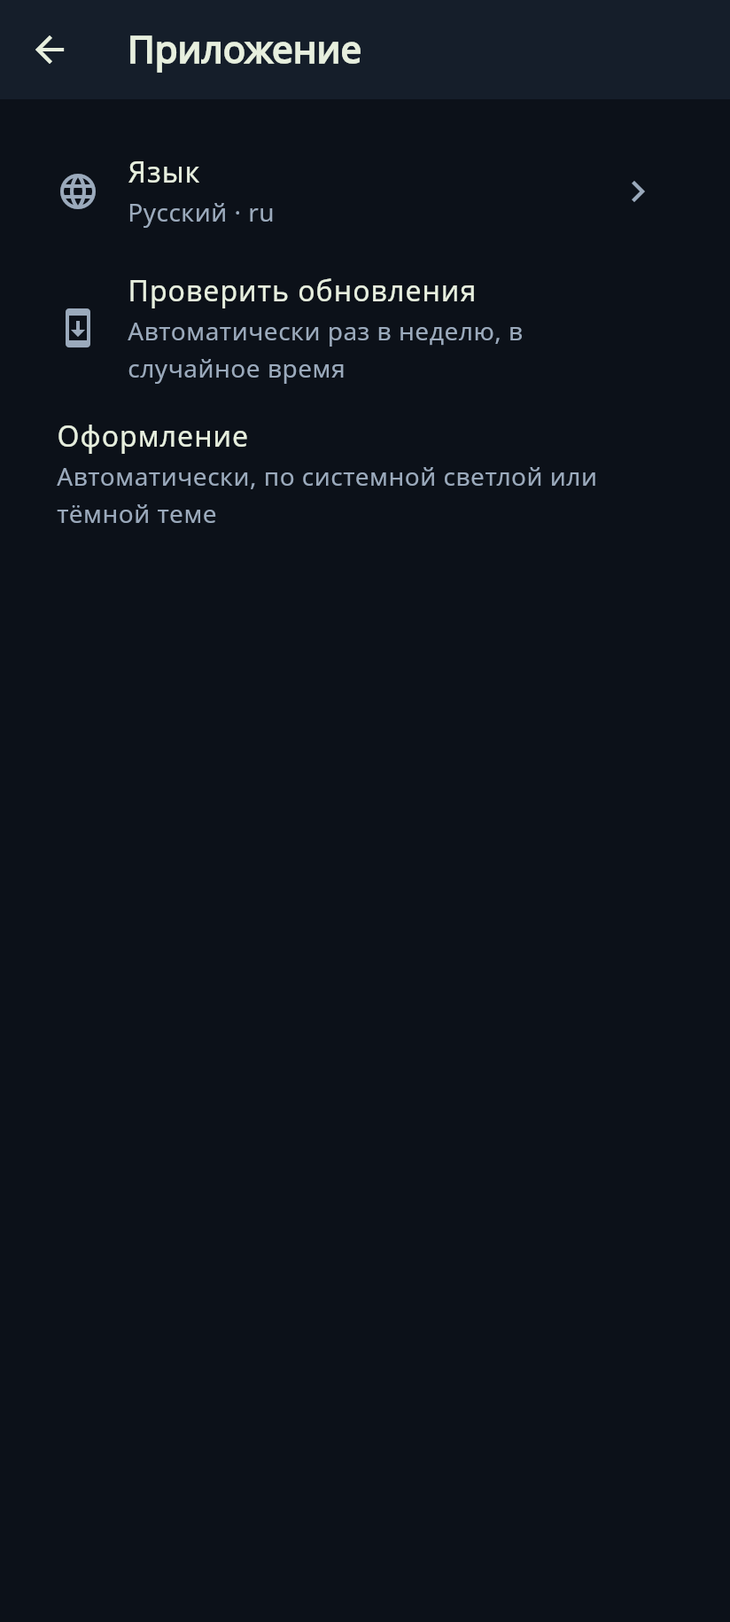
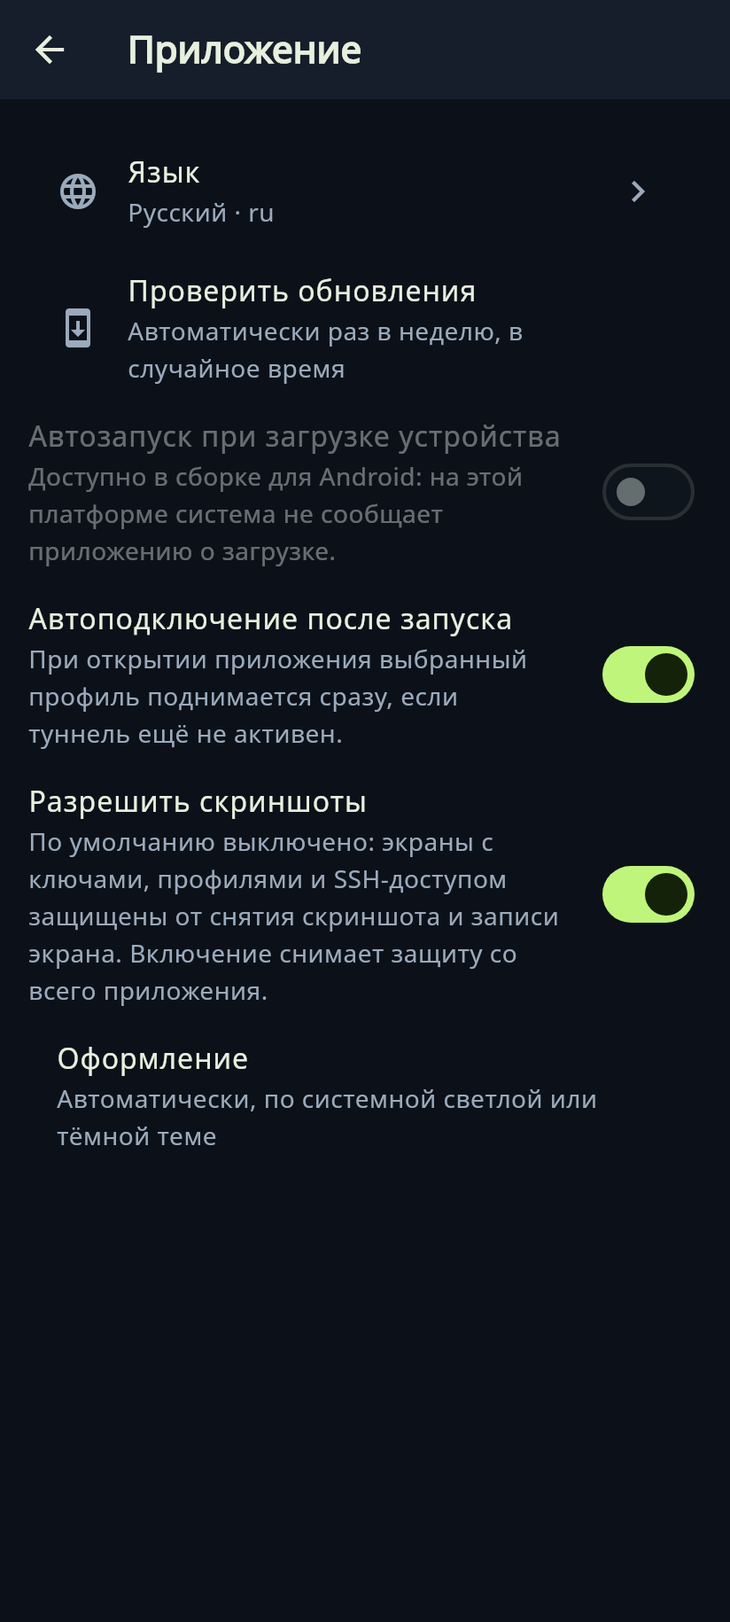
docs(release): 0.24.2 update — DNS, MTProto, behaviour settings, new screenshots
- capture three new frames from the widget test: settings-dns.png,
  settings-mtproto.png, settings-behaviour.png (1080x2400, ru, dark);
  refresh the existing six
- docs/screenshots/README.md: nine-frame table, reproduction commands and
  the honest note that the autostart switch renders disabled on the Linux
  test host (Platform.isAndroid is false there)
- README.md / README.ru.md: two new frames in the screenshot section
- docs/release-notes-0.24.2.md: RU and EN block 'What's new in 0.24.2
  (04.11 update)' — third-party DNS, MTProto with the link template,
  autostart/auto-connect/screenshot permission, IPv4 exit in the setup
  wizard, and the startup-resilience fix

diff --git a/app/test/screenshots/capture_screens_test.dart b/app/test/screenshots/capture_screens_test.dart
@@ -25,11 +25,13 @@ import 'package:flutter/rendering.dart';
 import 'package:flutter/services.dart';
 import 'package:flutter_localizations/flutter_localizations.dart';
 import 'package:flutter_test/flutter_test.dart';
+import 'package:xio/app_settings.dart';
 import 'package:xio/app_theme.dart';
 import 'package:xio/cascade_model.dart';
 import 'package:xio/cascade_ui.dart';
 import 'package:xio/core.dart';
 import 'package:xio/l10n.dart';
+import 'package:xio/mtproto_ui.dart';
 import 'package:xio/workspace_ui.dart';
 
 import '../support/screenshots.dart';
@@ -127,6 +129,18 @@ Widget _app(AppStore store) => MaterialApp(
   home: WorkspaceShell(store: store),
 );
 
+/// Wraps a single screen the way `XioApp` wraps the shell, for the frames that
+/// are pages of their own (they still need the ru locale and the app theme).
+Widget _page(Widget home) => MaterialApp(
+  locale: const Locale('ru'),
+  supportedLocales: AppLanguages.locales,
+  localizationsDelegates: GlobalMaterialLocalizations.delegates,
+  localeListResolutionCallback: (_, _) => const Locale('ru'),
+  debugShowCheckedModeBanner: false,
+  theme: _theme(Brightness.dark),
+  home: home,
+);
+
 /// Store in the state the screenshots document: a configured server, the
 /// tunnel is off (`TunnelStatus()` → «Отключено»), cascade addresses are saved.
 class _ScreenshotStore extends AppStore {
@@ -151,6 +165,14 @@ class _ScreenshotStore extends AppStore {
     endpointCountries['185.14.30.7:51820'] = 'NL';
     cascadeBridge = '81.177.142.37';
     cascadeExit = '2a0c:b641:1a0:800::2a2';
+    // 0.24.2 settings: a third-party resolver, a saved MTProto link and the
+    // three behaviour switches (autostart / auto-connect / screenshots).
+    dnsServers = const <String>['1.1.1.1', '2606:4700:4700::1111'];
+    mtprotoLink =
+        'tg://proxy?server=proxy.xio.fr&port=443'
+        '&secret=ee0f1e2d3c4b5a69788796a5b4c3d2e1f0';
+    autoConnectOnStart = true;
+    allowScreenshots = true;
   }
 }
 
@@ -388,6 +410,136 @@ void main() {
       tester,
       key,
       'cascade-servers-dialog.png',
+      pixelRatio: _phoneDpr,
+    );
+  });
+
+  testWidgets('dns resolver: presets, the saved pair and the custom fields', (
+    tester,
+  ) async {
+    tester.view.physicalSize = _phonePhysical;
+    tester.view.devicePixelRatio = _phoneDpr;
+    tester.platformDispatcher.platformBrightnessTestValue = Brightness.dark;
+    addTearDown(tester.view.resetPhysicalSize);
+    addTearDown(tester.view.resetDevicePixelRatio);
+    addTearDown(tester.platformDispatcher.clearPlatformBrightnessTestValue);
+
+    final store = _ScreenshotStore();
+    addTearDown(store.dispose);
+    final key = GlobalKey();
+    await tester.pumpWidget(
+      RepaintBoundary(key: key, child: _page(DnsSettingsPage(store: store))),
+    );
+    await tester.pumpAndSettle();
+
+    expect(find.text('DNS-резолвер'), findsOneWidget);
+    for (final item in const <String>[
+      'AdGuard DNS (IPv6)',
+      'Quad9',
+      'Cloudflare',
+      'Google Public DNS',
+      'Свои',
+    ]) {
+      expect(find.text(item).hitTestable(), findsOneWidget, reason: item);
+    }
+    // The saved pair is preselected, so its addresses are on the screen.
+    expect(find.text('1.1.1.1, 2606:4700:4700::1111'), findsOneWidget);
+    expect(find.text('Сохранить').hitTestable(), findsOneWidget);
+    expect(tester.takeException(), isNull);
+
+    await _shoot(tester, key, 'settings-dns.png', pixelRatio: _phoneDpr);
+  });
+
+  testWidgets('mtproto proxy: instruction, saved link and status', (
+    tester,
+  ) async {
+    tester.view.physicalSize = _phonePhysical;
+    tester.view.devicePixelRatio = _phoneDpr;
+    tester.platformDispatcher.platformBrightnessTestValue = Brightness.dark;
+    addTearDown(tester.view.resetPhysicalSize);
+    addTearDown(tester.view.resetDevicePixelRatio);
+    addTearDown(tester.platformDispatcher.clearPlatformBrightnessTestValue);
+
+    final store = _ScreenshotStore();
+    addTearDown(store.dispose);
+    final key = GlobalKey();
+    await tester.pumpWidget(
+      RepaintBoundary(
+        key: key,
+        child: _page(
+          Scaffold(
+            appBar: AppBar(title: const LText('Telegram-прокси (MTProto)')),
+            body: SafeArea(
+              // The screen has no Scaffold of its own: the settings page
+              // supplies the title and the scroll view.
+              child: SingleChildScrollView(
+                padding: const EdgeInsets.all(16),
+                child: MtprotoProxyScreen(store: store),
+              ),
+            ),
+          ),
+        ),
+      ),
+    );
+    await tester.pumpAndSettle();
+
+    expect(find.text('Как включить прокси в Telegram'), findsOneWidget);
+    expect(find.textContaining('Данные и память'), findsOneWidget);
+    expect(find.text('Прокси настроен'), findsOneWidget);
+    expect(find.text('Сохранить').hitTestable(), findsOneWidget);
+    expect(tester.takeException(), isNull);
+
+    await _shoot(tester, key, 'settings-mtproto.png', pixelRatio: _phoneDpr);
+  });
+
+  testWidgets('application settings: autostart, auto-connect, screenshots', (
+    tester,
+  ) async {
+    tester.view.physicalSize = _phonePhysical;
+    tester.view.devicePixelRatio = _phoneDpr;
+    tester.platformDispatcher.platformBrightnessTestValue = Brightness.dark;
+    addTearDown(tester.view.resetPhysicalSize);
+    addTearDown(tester.view.resetDevicePixelRatio);
+    addTearDown(tester.platformDispatcher.clearPlatformBrightnessTestValue);
+
+    final store = _ScreenshotStore();
+    addTearDown(store.dispose);
+    final key = GlobalKey();
+    await tester.pumpWidget(
+      RepaintBoundary(
+        key: key,
+        child: _page(
+          Scaffold(
+            appBar: AppBar(title: const LText('Приложение')),
+            body: SafeArea(
+              child: SingleChildScrollView(
+                padding: const EdgeInsets.all(16),
+                child: AppBehaviorSettings(store: store),
+              ),
+            ),
+          ),
+        ),
+      ),
+    );
+    await tester.pumpAndSettle();
+
+    for (final item in const <String>[
+      'Автозапуск при загрузке устройства',
+      'Автоподключение после запуска',
+      'Разрешить скриншоты',
+    ]) {
+      expect(find.text(item).hitTestable(), findsOneWidget, reason: item);
+    }
+    // The test host is Linux, so `Platform.isAndroid` is false and the
+    // autostart row renders its non-Android fallback text: the frame is an
+    // honest render of the widget, not a photograph of a phone.
+    expect(find.textContaining('Доступно в сборке для Android'), findsOneWidget);
+    expect(tester.takeException(), isNull);
+
+    await _shoot(
+      tester,
+      key,
+      'settings-behaviour.png',
       pixelRatio: _phoneDpr,
     );
   });

diff --git a/docs/release-notes-0.24.2.md b/docs/release-notes-0.24.2.md
@@ -13,6 +13,49 @@
 
 ### 🚀 Что нового
 
+#### Что нового в 0.24.2 (обновление от 04.11)
+
+Обновление того же выпуска: к первому комплекту 0.24.2 добавились выбор стороннего DNS, экран
+MTProto-прокси, настройки поведения (автозапуск, автоподключение, скриншоты) и IPv4-exit в мастере
+установки. Номера версии и `versionCode` не менялись (0.24.2+5019) — APK пересобраны, подпись та же
+(`e4e81b12…c9671`), поэтому обновление ставится поверх.
+
+- **🌐 Выбор стороннего DNS.** Настройки → «Соединение» → **«DNS-резолвер»**: готовые наборы
+  (AdGuard DNS, Quad9, Cloudflare, Google Public DNS) или два своих адреса — IPv4, IPv6 или домен.
+  Выбор записывается в новые AWG-профили и виден в мастере установки; сервер как DNS при этом не
+  используется. Если выбрать только IPv6-адреса, экран честно предупреждает: без IPv6-выхода у
+  сервера имена не разрешатся. Кадр — [`docs/screenshots/settings-dns.png`](screenshots/settings-dns.png).
+- **✈ MTProto-прокси для Telegram.** Настройки → **«Telegram-прокси (MTProto)»**: приложение хранит
+  ссылку `tg://proxy?…`, проверяет её формат, копирует и отдаёт в Telegram. Прокси работает только
+  для Telegram и не видит остальной трафик; ссылка даёт доступ к прокси, но не к аккаунту, и её не
+  стоит публиковать. Шаблон ссылки:
+
+  ```
+  tg://proxy?server=<адрес>&port=<443>&secret=ee<32 hex-символа>
+  ```
+
+  Порядок включения на телефоне: скопировать ссылку → Telegram → «Настройки» → «Данные и память» →
+  «Прокси» → «Добавить прокси» → **MTProto** → вставить ссылку → включить «Использовать прокси».
+  Кадр — [`docs/screenshots/settings-mtproto.png`](screenshots/settings-mtproto.png).
+- **⚙ Автозапуск, автоподключение и разрешение скриншотов.** Настройки → «Приложение»:
+  «Автозапуск при загрузке устройства» (приложение поднимается само после перезагрузки; без
+  разрешения на уведомления подключение не поднимается), «Автоподключение после запуска» (выбранный
+  профиль поднимается при открытии приложения, если туннель ещё не активен) и «Разрешить скриншоты»
+  (по умолчанию **выключено**: экраны с ключами, профилями и SSH-доступом защищены `FLAG_SECURE`).
+  Кадр — [`docs/screenshots/settings-behaviour.png`](screenshots/settings-behaviour.png).
+- **🧭 Каскад с IPv4-exit.** В мастере установки сервера поле «Exit-сервер» теперь принимает
+  **IPv4-адрес** наравне с IPv6 (`81.177.142.37` или `2a0c:b641:1a0:800::2a2`): IPv6 — каскад
+  только для IPv6-трафика, IPv4 — весь трафик через зарубежный exit. Второе поле — диалог «Серверы
+  каскада» — по-прежнему IPv6-адрес: транспорт `ssh -w 0:0` поднимается по IPv6. Кадры —
+  [`cascade-configured.png`](screenshots/cascade-configured.png) и
+  [`cascade-servers-dialog.png`](screenshots/cascade-servers-dialog.png).
+
+**🩹 Старт больше не зависит от нативного слоя.** `AppStore.load()` вызывается через `unawaited`,
+и любой `PlatformException` из нативных методов (`setAutostart`, `setAutoConnectOnStart`,
+`setConsent`, `secureScreen`) оставлял приложение на сплэше навсегда: `ready` не наступал. Теперь
+эти вызовы терпимы к ошибке, а `ready = true` и `notifyListeners()` стоят в `finally`. Найдено на
+свежей установке APK, собранного со старым `android/` — там нативного `setAutostart` ещё не было.
+
 **🔐 Дескриптор, из-за которого мобильный пакет падал случайно.** `tun.CreateUnmonitoredTUNFromFD`
 заворачивает fd в `*os.File` **до** проверки `TUNGETIFF`; на неподходящем дескрипторе конструктор
 возвращал ошибку, не закрыв объект, а `AwgTurnOn` на ошибочном пути закрывал тот же номер вторым
@@ -232,6 +275,49 @@ two-server cascade. Main-side work adds the second half of the cascade, the CJK 
 client build pipeline, battery savings and a hermetic test suite. All of it lands as one release.
 
 ### 🚀 What's new
+
+#### What's new in 0.24.2 (04.11 update)
+
+A refresh of the same release: the first 0.24.2 payload gains a third-party DNS choice, an MTProto
+proxy screen, behaviour settings (autostart, auto-connect, screenshots) and an IPv4 exit in the setup
+wizard. Version and `versionCode` are unchanged (0.24.2+5019) — the APKs were rebuilt under the same
+certificate (`e4e81b12…c9671`), so the update installs over the previous build.
+
+- **🌐 Third-party DNS choice.** Settings → "Connection" → **"DNS resolver"**: ready-made sets
+  (AdGuard DNS, Quad9, Cloudflare, Google Public DNS) or two addresses of your own — IPv4, IPv6 or a
+  domain. The choice is written into new AWG profiles and shown in the install wizard; the server is
+  never used as DNS. Choosing IPv6-only addresses warns honestly: without an IPv6 egress on the
+  server the names will not resolve. Frame — [`docs/screenshots/settings-dns.png`](screenshots/settings-dns.png).
+- **✈ MTProto proxy for Telegram.** Settings → **"Telegram proxy (MTProto)"**: the app stores a
+  `tg://proxy?…` link, validates the format, copies it and hands it to Telegram. The proxy serves
+  Telegram only and never sees the rest of the traffic; the link grants proxy access, not account
+  access, and should not be published. Link template:
+
+  ```
+  tg://proxy?server=<address>&port=<443>&secret=ee<32 hex chars>
+  ```
+
+  On the phone: copy the link → Telegram → "Settings" → "Data and Storage" → "Proxy" → "Add proxy"
+  → **MTProto** → paste the link → enable "Use proxy". Frame —
+  [`docs/screenshots/settings-mtproto.png`](screenshots/settings-mtproto.png).
+- **⚙ Autostart, auto-connect and screenshot permission.** Settings → "Application": "Autostart on
+  device boot" (the app starts itself after a reboot; without the notification permission the tunnel
+  stays down), "Auto-connect after launch" (the selected profile is raised when the app opens and the
+  tunnel is not active yet) and "Allow screenshots" (**off** by default: screens with keys, profiles
+  and SSH access are `FLAG_SECURE`). Frame —
+  [`docs/screenshots/settings-behaviour.png`](screenshots/settings-behaviour.png).
+- **🧭 Cascade with an IPv4 exit.** In the server setup wizard the "Exit server" field now takes an
+  **IPv4 address** as well as IPv6 (`81.177.142.37` or `2a0c:b641:1a0:800::2a2`): IPv6 means a
+  cascade for IPv6 traffic only, IPv4 routes all traffic through a foreign exit. The second field —
+  the "Cascade servers" dialog — still expects an IPv6 address: the `ssh -w 0:0` transport comes up
+  over IPv6. Frames — [`cascade-configured.png`](screenshots/cascade-configured.png) and
+  [`cascade-servers-dialog.png`](screenshots/cascade-servers-dialog.png).
+
+**🩹 Startup no longer depends on the native layer.** `AppStore.load()` runs through `unawaited`, so
+any `PlatformException` from a native method (`setAutostart`, `setAutoConnectOnStart`, `setConsent`,
+`secureScreen`) left the app on the splash screen forever: `ready` never became true. Those calls now
+tolerate the error and `ready = true` / `notifyListeners()` sit in `finally`. Found on a fresh install
+of an APK built against a stale `android/` that had no native `setAutostart` yet.
 
 **🔐 The descriptor that made the mobile package fail at random.** `tun.CreateUnmonitoredTUNFromFD`
 wraps the fd in an `*os.File` **before** it validates `TUNGETIFF`; on a descriptor that is not a TUN it

diff --git a/docs/screenshots/README.md b/docs/screenshots/README.md
@@ -2,7 +2,7 @@
 
 [Главная](../../README.ru.md) · [Возможности](../features.ru.md) · [Схемы](../landing/architecture.mmd) · [Home (EN)](../../README.md)
 
-Шесть кадров Android-интерфейса уже сняты и лежат рядом с этим файлом — их рисует сам
+Девять кадров Android-интерфейса уже сняты и лежат рядом с этим файлом — их рисует сам
 Flutter в widget-тесте (раздел 1). Остальные кадры (Windows, Ubuntu, телефон, веб-панель,
 терминал) ещё нужно снять: для них ниже точные инструкции и таблица статусов, а не выдумка.
 
@@ -16,7 +16,7 @@ Flutter в widget-тесте (раздел 1). Остальные кадры (Wi
 
 ## 1. Снятые кадры (golden-рендер, PNG)
 
-Все шесть кадров получены `flutter test` на Debian 13, `Flutter 3.47.7`, тема тёмная, язык
+Все девять кадров получены `flutter test` на Debian 13, `Flutter 3.47.7`, тема тёмная, язык
 `ru`. Кадр рисует Flutter, а не система, поэтому `FLAG_SECURE` ему не мешает. Файлы —
 настоящие PNG, не SVG и не макеты.
 
@@ -27,7 +27,10 @@ Flutter в widget-тесте (раздел 1). Остальные кадры (Wi
 | `cascade-configured.png` | Экран «Каскад» с настроенными адресами: Устройство → Bridge `81.177.142.37` → Exit `2a0c:b641:1a0:800::2a2`, «Готов к подключению», пинг «—», плашка подписки «XIO Cascade» | 1080×2400 | тест `cascade screen: configured bridge and IPv6 exit` |
 | `cascade-servers-dialog.png` | Диалог «Серверы каскада»: два поля (Bridge IPv4/домен, Exit только IPv6) с заполненными адресами и готовая команда установки `--role bridge --exit-host 2a0c:b641:1a0:800::2a2` | 1080×2400 | тест `cascade servers dialog: two fields and the install command` |
 | `settings.png` | Настройки: Серверы, Соединение, Приложение, Пользователи, Поддержать XIO, О XIO | 824×1830 (412×915 @2×) | тест `settings: list, then the application/locale screen` |
-| `settings-locales.png` | «Приложение»: язык «Русский · ru», «Проверить обновления», «Оформление» | 824×1830 (412×915 @2×) | тот же тест, второй кадр |
+| `settings-locales.png` | «Приложение» целиком: язык «Русский · ru», «Проверить обновления», три переключателя, «Оформление» | 824×1830 (412×915 @2×) | тот же тест, второй кадр |
+| `settings-dns.png` | «DNS-резолвер»: пояснение, четыре готовых набора (AdGuard DNS (IPv6), Quad9, Cloudflare, Google Public DNS) с отмеченным Cloudflare, пункт «Свои» и кнопка «Сохранить» | 1080×2400 | тест `dns resolver: presets, the saved pair and the custom fields` |
+| `settings-mtproto.png` | «Telegram-прокси (MTProto)»: четыре шага включения прокси в Telegram, поле «Ссылка прокси» с `tg://proxy?…`, подпись «Сервер: proxy.xio.fr:443», кнопки «Сохранить / Скопировать / Открыть в Telegram / Вставить / Очистить» и строка «Прокси настроен» | 1080×2400 | тест `mtproto proxy: instruction, saved link and status` |
+| `settings-behaviour.png` | Три переключателя экрана «Приложение»: «Автозапуск при загрузке устройства», «Автоподключение после запуска» (вкл.), «Разрешить скриншоты» (вкл.) с подписями-пояснениями | 1080×2400 | тест `application settings: autostart, auto-connect, screenshots` |
 
 Команда прогона (из каталога `app/`):
 
@@ -58,7 +61,12 @@ XIO_CAPTURE_IMAGES=1 flutter test test/screenshots
   моноширинном начертании берутся из системных `NotoColorEmoji` и `monospace` — на хосте без
   них на месте этих глифов будут пустые прямоугольники, а геометрия кадра не изменится;
 - тест сам проверяет результат: PNG-сигнатуру, ожидаемый размер в пикселях и число разных
-  цветов (чтобы «чёрный кадр» не мог пройти молча).
+  цветов (чтобы «чёрный кадр» не мог пройти молча);
+- `settings-behaviour.png` снят на Linux-хосте теста, а поведение «Автозапуска» в коде зависит от
+  `Platform.isAndroid`. Поэтому в кадре переключатель «Автозапуск при загрузке устройства»
+  неактивен, а его подпись — не-андроидная ветка («Доступно в сборке для Android…»). На телефоне
+  переключатель активен; остальные две строки («Автоподключение», «Разрешить скриншоты») рисуются
+  одинаково на любой платформе. Это ограничение хоста, а не состояние приложения.
 
 Примеры самих тестов — `app/test/screenshots/capture_screens_test.dart`, общий помощник
 захвата — `app/test/support/screenshots.dart`.
@@ -334,6 +342,9 @@ sudo ./install-webui.sh 0.0.0.0:10443        # скрипт печатает URL
 | A3 (экран «Каскад», настроенные адреса) | `cascade-configured.png` | подписка показана активной (заглушка `enabled == false`) |
 | A5 (форма установки) | `cascade-servers-dialog.png` | это диалог адресов, а не галочка «Включить каскад» |
 | A7 (настройки → «Приложение») | `settings.png`, `settings-locales.png` | «Оформление» без выбора темы: приложение следует системной |
+| A7 (Соединение → «DNS-резолвер») | `settings-dns.png` | выбор набора без системной строки состояния |
+| A7 (Настройки → «Telegram-прокси (MTProto)») | `settings-mtproto.png` | экран настроек без системной строки состояния |
+| A7 (Приложение → автозапуск/автоподключение/скриншоты) | `settings-behaviour.png` | на Linux-хосте «Автозапуск» неактивен и с не-андроидной подписью |
 
 ---
 
@@ -349,6 +360,9 @@ sudo ./install-webui.sh 0.0.0.0:10443        # скрипт печатает URL
 | `docs/screenshots/cascade-configured.png` | Android Full, «Каскад» с настроенными адресами (golden) |
 | `docs/screenshots/cascade-servers-dialog.png` | Диалог «Серверы каскада» и команда установки (golden) |
 | `docs/screenshots/settings.png`, `settings-locales.png` | Android Full, настройки и «Приложение» (golden) |
+| `docs/screenshots/settings-dns.png` | Android Full, «DNS-резолвер»: наборы и «Свои» (golden) |
+| `docs/screenshots/settings-mtproto.png` | Android Full, «Telegram-прокси (MTProto)» с сохранённой ссылкой (golden) |
+| `docs/screenshots/settings-behaviour.png` | Android Full, три переключателя «Приложения» (golden) |
 | `docs/images/2026-10-26-full-home.png` | Full XIO, главная |
 | `docs/images/2026-10-26-full-settings.png` | Full XIO, настройки |
 | `docs/images/2026-10-26-win-windows-home.png` | XIO Client для Windows |

diff --git a/README.ru.md b/README.ru.md
@@ -563,6 +563,10 @@ entitlements NetworkExtension. См. [сборка из исходников](do
 |---|---|
 | ![Главная: отключено, выбран сервер](docs/screenshots/main-idle.png) | ![Соединение: ключ, свой сервер, каскад, пользователь](docs/screenshots/connection-tab.png) |
 
+| «DNS-резолвер»: наборы и свои адреса | «Telegram-прокси (MTProto)»: шаги и сохранённая ссылка |
+|---|---|
+| ![DNS-резолвер: AdGuard, Quad9, Cloudflare, Google Public DNS и пункт «Свои»](docs/screenshots/settings-dns.png) | ![Telegram-прокси (MTProto): инструкция, ссылка tg://proxy и статус «Прокси настроен»](docs/screenshots/settings-mtproto.png) |
+
 Экраны Android остаются чёрными на системном скриншоте: приложение ставит `FLAG_SECURE`. Это
 защита, а не ошибка — Android-кадры в документации получены из widget-тестов Flutter. Список
 кадров, которые ещё нужны, с точными командами `adb` и таблицей статусов —

diff --git a/README.md b/README.md
@@ -556,6 +556,10 @@ Fresh Android frames produced by the golden render
 |---|---|
 | ![Home: disconnected, server chosen](docs/screenshots/main-idle.png) | ![Connection: key, own server, cascade, user](docs/screenshots/connection-tab.png) |
 
+| "DNS resolver": presets and custom addresses | "Telegram proxy (MTProto)": steps and the saved link |
+|---|---|
+| ![DNS resolver: AdGuard, Quad9, Cloudflare, Google Public DNS and "Custom"](docs/screenshots/settings-dns.png) | ![MTProto proxy: instruction, tg://proxy link and the "Proxy configured" status](docs/screenshots/settings-mtproto.png) |
+
 Android screens on the phone stay black in a system screenshot: the app sets `FLAG_SECURE`. That is
 protection, not a bug — the Android images in the docs come from Flutter widget tests. The list of
 frames we still need, with exact `adb` commands and a status table, is in
